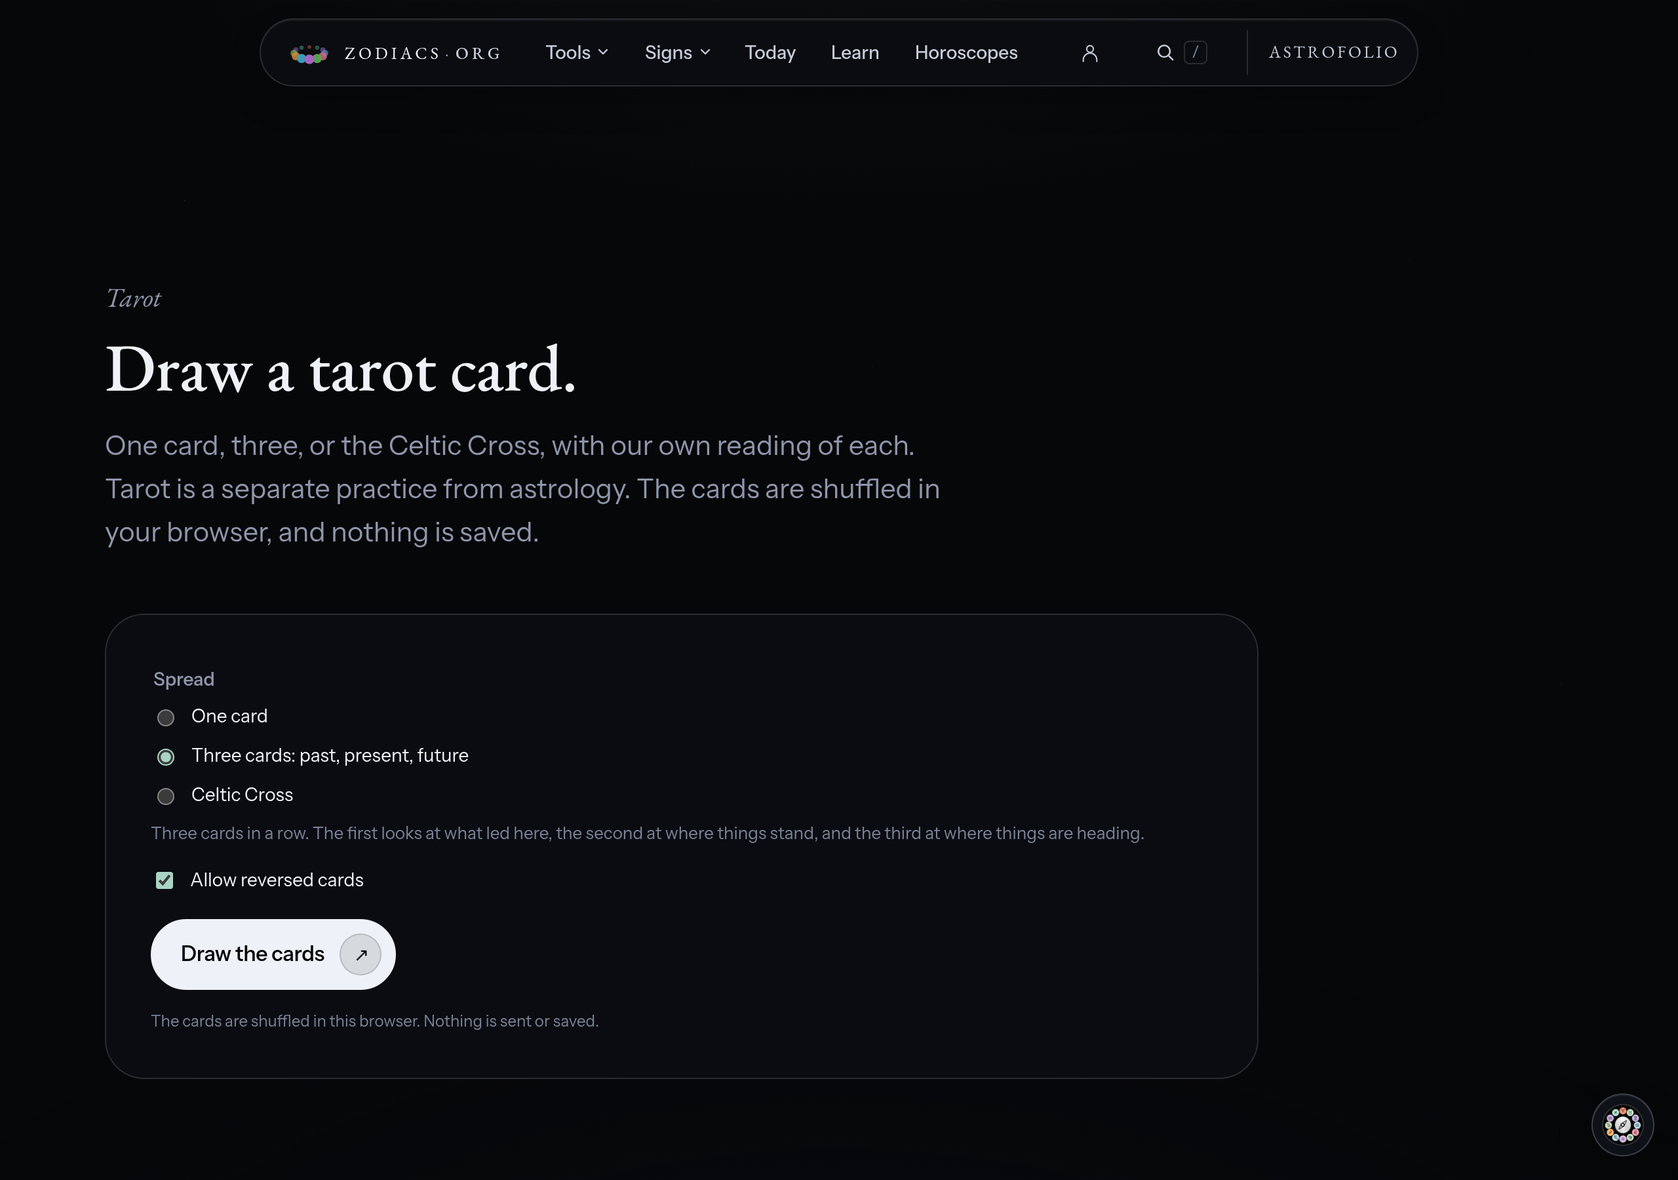
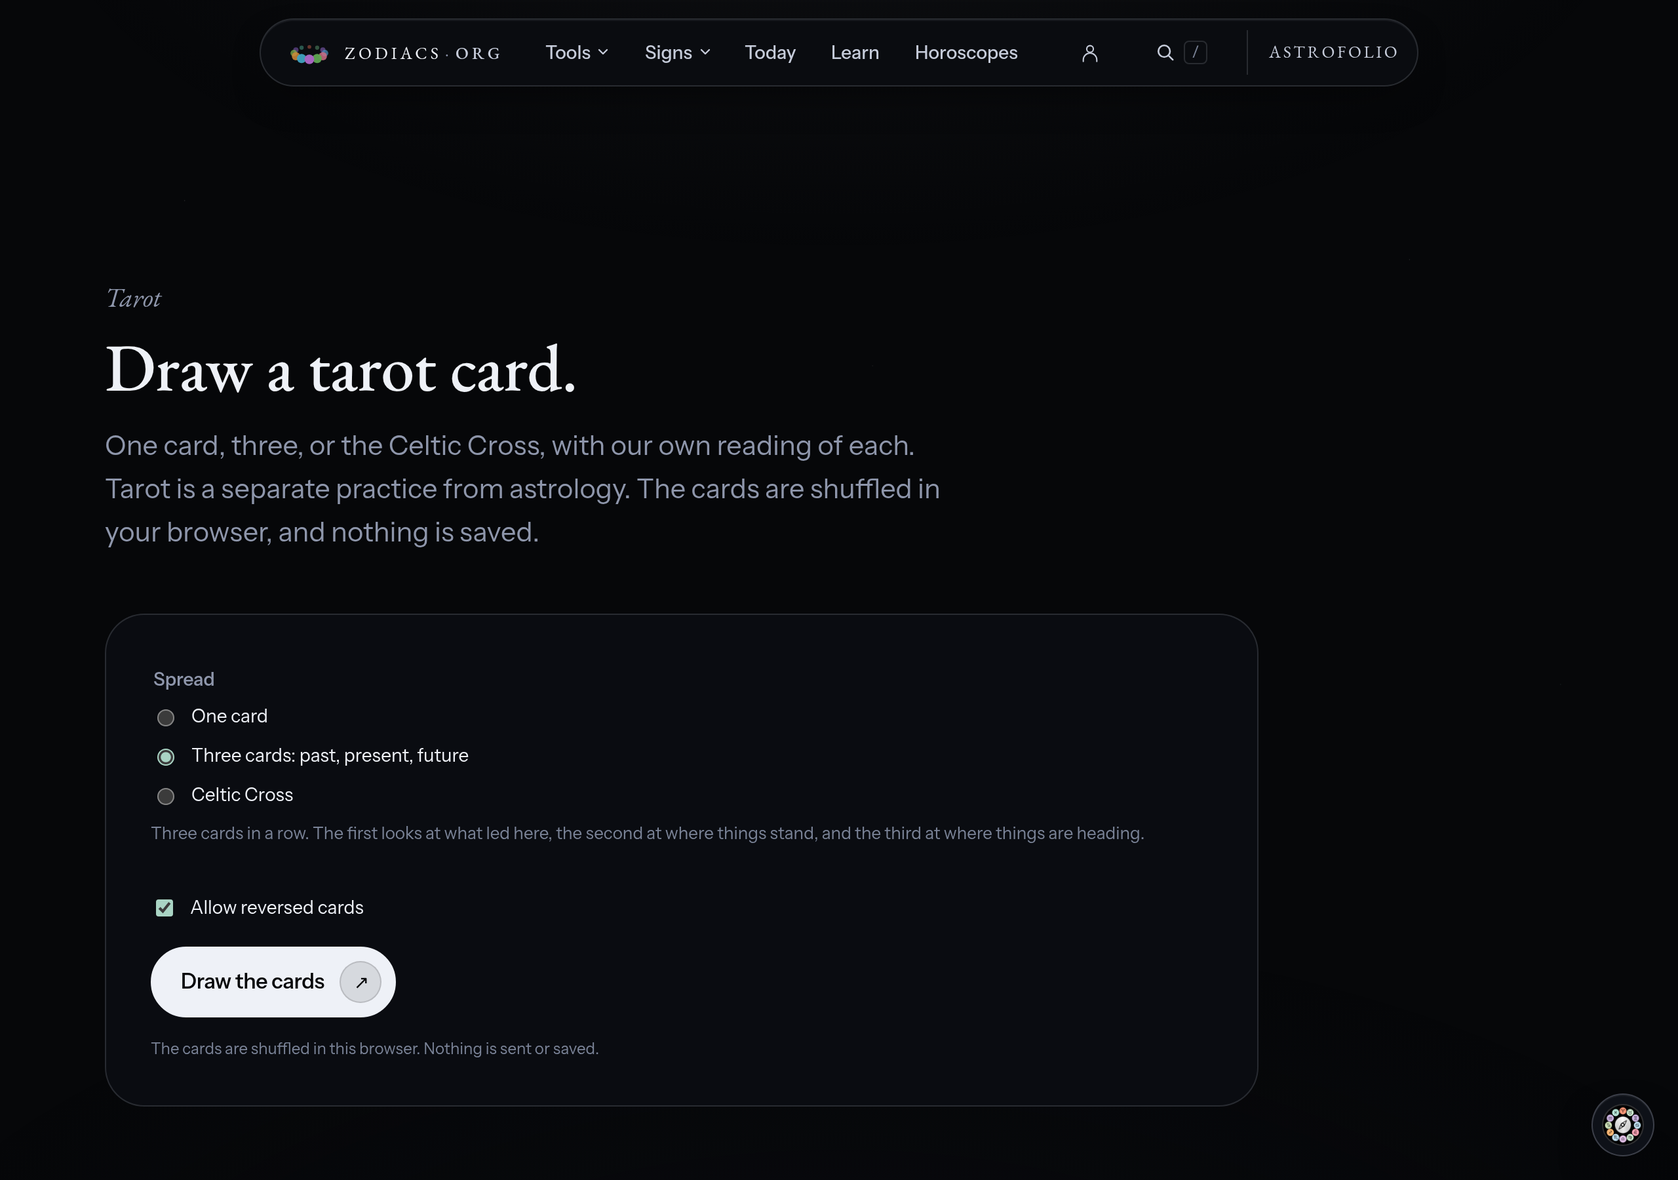
Tarot: link the page only while it is on, keep the spread description's height, no reading for a named child
draw_tarot and the explain_astrology tarot pointer link /tarot/ only while the
website's page switch is on, so a web rollback leaves no 404 link. The spread
descriptions share one grid cell sized to the longest, so a choice taken over at
hydration moves nothing; the delayed-hydration drive now measures that shift for
every spread. The draw_tarot description tells the assistant to give no reading
for a named child under 13 and to ask for or send nothing about them.

Changed region(s): [[0.0625, 0.7156, 0.3125, 0.9022]]

diff --git a/src/ai-tools/contracts.ts b/src/ai-tools/contracts.ts
@@ -529,7 +529,7 @@ export const TOOL_DESCRIPTIONS: Record<AiToolName, string> = {
   get_solar_return: "Gives the person's solar return: the chart for their next birthday, cast for the instant the Sun returns to its birth degree, with the year's main themes (the return's rising sign and the house of its Sun with a birth time and place, the Moon's sign with a birth time, where Jupiter grows and Saturn builds, and the chart's tightest aspect). Use it for questions such as what my next birthday chart says, or what themes my coming year holds. Give their birth date, with the time, time zone and coordinates only if they know them; never guess a time. which: current gives the return that opened the birthday year now running. Birth details are used for this answer only: never stored, logged or put in a link. The themes come with their limits, the return's time on the person's clock and a \"Reading confidence NN%\" label that says how specific the details were, not the odds of an event. shareUrl is the link for sharing it. Money, career, wellbeing and legal themes are read as astrology traditionally reads them; it gives no price or trading call, buy or sell signal, diagnosis or medical timing, death prediction, or legal win or loss. For a birth date under 18 romantic and attraction readings are left out and a note says so. It refuses a birth date less than 13 years ago.",
   get_numerology: "Works out numerology numbers from a birth date and, if the person gives it, their full name at birth: the Life Path, Expression, Soul Urge and Personality numbers (Pythagorean system, with 11, 22 and 33 kept as master numbers) and the Personal Year, each with Zodiacs' own written meaning. Numerology is a separate tradition from astrology, with no planets, signs or sky in it: say so when you share it, and do not present it as part of a birth chart. Use it when someone asks for their life path number or another numerology number. Give the birth date, and the name only as the person gives it for this reading; never guess either. The name and date are used for this answer only: they are not returned, stored or put in a link. Share the meanings plainly as numerology's traditional reading, including work and wellbeing where the tradition speaks to them, with no money, earnings or promotion forecasts. Give no specific price or investment calls, buy or sell signals, diagnoses or medical timing, predictions of death, or word that someone will win or lose a legal matter.",
   find_good_days: "Finds the best days for a goal in a window of up to twelve months, by the traditional rules of electional astrology, and the days to avoid. Goals: launch, contract (signing a contract), move (moving home), relationship (starting a relationship), travel, job (starting a new job) and wedding. Each day is read from the Moon's phase and sign, the void-of-course Moon, Mercury, Venus and Mars retrograde and their station days, eclipses (2026 to 2030) and the Moon's supportive or difficult aspects that day. Give the goal, from and to as dates (at most 366 days in all) and the person's time zone. If the person asks for their own chart to count, add their birth date, and the birth time and birthplace time zone only if they give them; these are used for this answer only and never stored. Never send a child's birth date: it refuses one under 13, and gives no relationship or wedding reading from one under 18. It returns ranked days, each with a score, a one-line reason and a reading-confidence label, the days to avoid with a reason each, and the retrograde periods and eclipses in the window. Share them plainly as astrology's traditional reading, money, career and legal themes included. It gives no timing for surgery, medical procedures or treatment, and a goal that asks for one gets that answer; do not call it for those. Make no price call, buy or sell signal, or prediction of who wins a legal matter. It guarantees nothing and does not schedule or book anything.",
-  draw_tarot: "Draws tarot cards: one card, three cards (past, present, future) or the ten-card Celtic Cross, each upright or reversed, with Zodiacs' own written meaning and a question to think about. Tarot is a separate practice from astrology, with no planets, signs or birth details in it: say so when you share the cards, and do not mix them with a chart reading. Use it when someone asks for a tarot card or a tarot reading. Each draw is random and fair, from the full 78-card deck with a secure random number generator, and a new call is a new draw. It takes only the spread and whether to allow reversed cards: never send the person's question, name or birth details, and keep the question in the conversation. Share each card plainly as tarot's traditional reading, including work, practical foundations, wellbeing and agreements where the card speaks to them, such as the Ace of Pentacles as a steady practical foundation or the Four of Swords as a call to rest, with no money, earnings or promotion forecasts. Give no specific price or investment calls, buy or sell signals, diagnoses or medical timing, predictions of death, or word that someone will win or lose a legal matter.",
+  draw_tarot: "Draws tarot cards: one card, three cards (past, present, future) or the ten-card Celtic Cross, each upright or reversed, with Zodiacs' own written meaning and a question to think about. Tarot is a separate practice from astrology, with no planets, signs or birth details in it: say so when you share the cards, and do not mix them with a chart reading. Use it when someone asks for a tarot card or a tarot reading. Each draw is random and fair, from the full 78-card deck with a secure random number generator, and a new call is a new draw. It takes only the spread and whether to allow reversed cards: never send the person's question, name or birth details, and keep the question in the conversation. Zodiacs is not directed at children under 13: give no tarot reading for a named child under 13, and do not ask for or send that child's name, age or other details. Share each card plainly as tarot's traditional reading, including work, practical foundations, wellbeing and agreements where the card speaks to them, such as the Ace of Pentacles as a steady practical foundation or the Four of Swords as a call to rest, with no money, earnings or promotion forecasts. Give no specific price or investment calls, buy or sell signals, diagnoses or medical timing, predictions of death, or word that someone will win or lose a legal matter.",
   ...personalRecord((tool) => tool.description),
 };
 

diff --git a/src/ai-tools/tarot.test.ts b/src/ai-tools/tarot.test.ts
@@ -210,12 +210,41 @@ describe('draw_tarot and privacy', () => {
   const spies: ReturnType<typeof vi.spyOn>[] = [];
   afterEach(() => { for (const spy of spies.splice(0)) spy.mockRestore(); });
 
-  it('logs nothing and links only to the tarot page', async () => {
+  it('logs nothing and links only to the tarot page, while the website\'s page is switched on', async () => {
     for (const method of ['log', 'info', 'warn', 'error', 'debug'] as const) spies.push(vi.spyOn(console, method).mockImplementation(() => {}));
-    const host = await serveAt(ON);
+    const host = await serveAt({ ...ON, PUBLIC_TAROT_ENABLED: '1' });
     const result = await call(host, 'draw_tarot', { spread: 'three-card' });
     expect(result.structuredContent.links.map((link: { url: string }) => link.url)).toEqual(['https://zodiacs.org/tarot/?ref=assistant']);
     for (const spy of spies) expect(spy).not.toHaveBeenCalled();
+  });
+
+  it('tells the assistant to give no reading for a named child under 13, and to ask for and send nothing about them', () => {
+    const description = TOOL_DESCRIPTIONS.draw_tarot;
+    expect(description).toContain('Zodiacs is not directed at children under 13: give no tarot reading for a named child under 13, and do not ask for or send that child\'s name, age or other details.');
+    // Said before the card meanings, next to what the call must never carry.
+    expect(description.indexOf('named child under 13')).toBeLessThan(description.indexOf('Share each card'));
+    expect(description.indexOf('keep the question in the conversation')).toBeLessThan(description.indexOf('named child under 13'));
+    expect(description).not.toMatch(/[\u2013\u2014]/u);
+  });
+
+  it('links no tarot page while the website\'s page is off, as after a web rollback, with draw_tarot still offered', async () => {
+    const urls = (result: { structuredContent: unknown }) => JSON.stringify(result.structuredContent).match(/https:\/\/[^"]+/gu) ?? [];
+    // The tool switch on and the page off: the page's own variable unset, or anything but exactly '1'.
+    for (const page of [undefined, '0', '', 'true', ' 1']) {
+      const host = await serveAt({ ...ON, PUBLIC_TAROT_ENABLED: page });
+      const drawn = await call(host, 'draw_tarot', { spread: 'three-card' });
+      expect(drawn.structuredContent.ok, String(page)).toBe(true);
+      expect(drawn.structuredContent.data.cards).toHaveLength(3);
+      expect(drawn.structuredContent.links).toEqual([]);
+      expect(urls(drawn).filter((url) => url.includes('/tarot/'))).toEqual([]);
+      const pointer = await call(host, 'explain_astrology', { topic: 'tarot' });
+      expect(pointer.structuredContent.data.message).toBe(TAROT_POINTER);
+      expect(urls(pointer).filter((url) => url.includes('/tarot/')), String(page)).toEqual([]);
+    }
+    // Both on: the pointer links the page too.
+    const host = await serveAt({ ...ON, PUBLIC_TAROT_ENABLED: '1' });
+    const pointer = await call(host, 'explain_astrology', { topic: 'tarot' });
+    expect(pointer.structuredContent.links.map((link: { url: string }) => link.url)).toEqual(['https://zodiacs.org/tarot/?ref=assistant']);
   });
 });
 

diff --git a/src/ai-tools/features/tarot.ts b/src/ai-tools/features/tarot.ts
@@ -50,8 +50,12 @@ export const TAROT_SEPARATE = 'Tarot is a separate practice from astrology. It w
 export const TAROT_METHOD = 'Each card is drawn from the full 78-card deck without replacement, using a secure random number generator and rejection sampling so that no card is favoured. With reversals on, each card is upright or reversed with even odds. Nothing about the person, and no question, goes into the draw.';
 export const TAROT_NOTE = 'The meanings are Zodiacs\' own, written to the themes the tarot tradition gives each card.';
 
-/** The answer for a draw already made: separated from drawTarot so the tests can check the shape of a known draw. */
-export function tarotAnswer(spread: TarotData['spread'], reversals: boolean, drawn: readonly DrawnCard[], origin: string): { data: TarotData; links: { title: string; url: string }[] } {
+/**
+ * The answer for a draw already made: separated from drawTarot so the tests can check the shape of a known draw.
+ * `pageOn`: the website's /tarot/ page is switched on (PUBLIC_TAROT_ENABLED=1); only then is it linked, since off it is
+ * the 404 page, whatever the tool's own switch says.
+ */
+export function tarotAnswer(spread: TarotData['spread'], reversals: boolean, drawn: readonly DrawnCard[], origin: string, pageOn = false): { data: TarotData; links: { title: string; url: string }[] } {
   const layout = SPREADS[spread];
   const data: TarotData = {
     spread, spreadName: layout.name, spreadDescription: layout.description, reversals,
@@ -60,11 +64,11 @@ export function tarotAnswer(spread: TarotData['spread'], reversals: boolean, dra
     method: TAROT_METHOD,
     note: TAROT_NOTE,
   };
-  return { data, links: [{ title: 'Tarot on Zodiacs', url: `${origin}/tarot/` }] };
+  return { data, links: pageOn ? [{ title: 'Tarot on Zodiacs', url: `${origin}/tarot/` }] : [] };
 }
 
-export function drawTarotReading(args: TarotInput, origin: string) {
+export function drawTarotReading(args: TarotInput, origin: string, pageOn = false) {
   const spread = args.spread ?? 'one-card';
   const reversals = args.reversals ?? true;
-  return tarotAnswer(spread, reversals, drawTarot(spread, reversals), origin);
+  return tarotAnswer(spread, reversals, drawTarot(spread, reversals), origin, pageOn);
 }

diff --git a/src/ai-tools/http.ts b/src/ai-tools/http.ts
@@ -256,7 +256,7 @@ export function createAiNodeHandler(options: AiHttpOptions = {}) {
       res.setHeader('Content-Type', 'application/json; charset=utf-8'); res.statusCode = 200;
       res.end(JSON.stringify({ jsonrpc: '2.0', id: typeof message.id === 'string' || typeof message.id === 'number' ? message.id : null, error: { code: -32601, message: 'This MCP operation is not supported.' } })); return;
     }
-    const dependencies: AiDependencies = { ...(options.dependencies ?? {}), ...(env[OCCASIONS_SWITCH_ENV] === '1' ? { occasions: true, ...(env[COVERAGE_SWITCH_ENV] === '1' ? { coverage: true } : {}) } : {}), ...(skyEvents ? { skyEvents: true } : {}), ...(yearScore ? { yearScore: true } : {}), ...(yearScorePeople ? { yearScorePeople: true } : {}), ...(solarReturn ? { solarReturn: true } : {}), ...(env.PUBLIC_BIRTHDAY_REPORT_ENABLED === '1' ? { birthdayReportPage: true } : {}), ...(numerology ? { numerology: true } : {}), ...(goodDays ? { goodDays: true } : {}), ...(tarot ? { tarot: true } : {}), ...(personal ? { personal: true } : {}), ...(account ? { accounts: true } : {}), allowEvents: async () => {
+    const dependencies: AiDependencies = { ...(options.dependencies ?? {}), ...(env[OCCASIONS_SWITCH_ENV] === '1' ? { occasions: true, ...(env[COVERAGE_SWITCH_ENV] === '1' ? { coverage: true } : {}) } : {}), ...(skyEvents ? { skyEvents: true } : {}), ...(yearScore ? { yearScore: true } : {}), ...(yearScorePeople ? { yearScorePeople: true } : {}), ...(solarReturn ? { solarReturn: true } : {}), ...(env.PUBLIC_BIRTHDAY_REPORT_ENABLED === '1' ? { birthdayReportPage: true } : {}), ...(numerology ? { numerology: true } : {}), ...(goodDays ? { goodDays: true } : {}), ...(tarot ? { tarot: true, ...(env.PUBLIC_TAROT_ENABLED === '1' ? { tarotPage: true } : {}) } : {}), ...(personal ? { personal: true } : {}), ...(account ? { accounts: true } : {}), allowEvents: async () => {
       try {
         const addressVerdict = await rateLimit(req, COMPUTE_EVENTS_RATE_LIMIT_ID);
         return addressVerdict === 'allowed' ? await atomicQuota('event') : addressVerdict;

diff --git a/src/islands/TarotDraw.test.ts b/src/islands/TarotDraw.test.ts
@@ -41,3 +41,25 @@ describe('the tarot draw reads the form it is in', () => {
     expect(source).toMatch(/const chosen = formChoice\(formRef\.current\);\s*if \(chosen\) \{ setSpread\(chosen\.spread\); setReversals\(chosen\.reversals\); \}\s*setReady\(true\);/u);
   });
 });
+
+describe('the spread description keeps its height whichever spread is chosen', () => {
+  it('renders every description in one cell, the chosen one shown and the others hidden from sight and from assistive technology', async () => {
+    const { SPREADS, SPREAD_IDS } = await import('../lib/tarot/spreads');
+    const markup = render(h(TarotDraw, {}));
+    const cell = markup.match(/<div class="tarot__spread-help">([\s\S]*?)<\/div>/u)?.[1] ?? '';
+    const paragraphs = [...cell.matchAll(/<p class="field__help"([^>]*)>([^<]*)<\/p>/gu)];
+    expect(paragraphs.map((match) => match[2])).toEqual(SPREAD_IDS.map((id) => SPREADS[id].description.replaceAll("'", '&#39;').replaceAll('"', '&quot;')));
+    const shown = paragraphs.filter((match) => /data-shown/u.test(match[1]));
+    expect(shown).toHaveLength(1);
+    expect(shown[0][2]).toBe(SPREADS['three-card'].description.replaceAll("'", '&#39;'));
+    expect(shown[0][1]).not.toContain('aria-hidden');
+    for (const match of paragraphs.filter((entry) => !/data-shown/u.test(entry[1]))) expect(match[1]).toContain('aria-hidden="true"');
+  });
+
+  it('stacks them in one grid cell and hides all but the chosen one, so the cell is as tall as the longest', () => {
+    const css = readFileSync(new URL('../styles/tarot.css', import.meta.url), 'utf8');
+    expect(css).toContain('.tarot__spread-help { display: grid; }');
+    expect(css).toContain('.tarot__spread-help > .field__help { grid-area: 1 / 1; }');
+    expect(css).toContain('.tarot__spread-help > .field__help:not([data-shown]) { visibility: hidden; }');
+  });
+});

diff --git a/src/ai-tools/features/explain.ts b/src/ai-tools/features/explain.ts
@@ -97,8 +97,10 @@ interface Topic {
 /**
  * numerology: get_numerology is offered (ZODIACS_NUMEROLOGY_ENABLED=1), so a numerology topic points to it.
  * tarot: draw_tarot is offered (ZODIACS_TAROT_ENABLED=1), so a tarot topic points to it.
+ * tarotPage: the website's /tarot/ page is switched on (PUBLIC_TAROT_ENABLED=1), so that pointer links it; off, the
+ * page is the 404 page, and the pointer links nothing.
  */
-export interface ExplainOptions { skyEvents?: boolean; numerology?: boolean; tarot?: boolean }
+export interface ExplainOptions { skyEvents?: boolean; numerology?: boolean; tarot?: boolean; tarotPage?: boolean }
 
 /** With get_numerology offered: numerology is still not astrology, so this tool does not explain it, but the other tool answers. */
 export const NUMEROLOGY_POINTER = 'Numerology is a separate tradition from astrology, and this tool explains astrology only. For numerology numbers and their meanings from a birth date and a name, use get_numerology, and say that it is numerology, not astrology.';
@@ -651,7 +653,7 @@ export function explainAstrology(args: ExplainInput, origin = DEFAULT_ORIGIN, op
       note: EXPLAIN_NOTE,
     };
     if (outside === 'numerology' && options.numerology) return { data, links: [{ title: 'Numerology calculator on Zodiacs', url: `${origin}/numerology/` }] };
-    if (outside === 'tarot' && options.tarot) return { data, links: [{ title: 'Tarot on Zodiacs', url: `${origin}/tarot/` }] };
+    if (outside === 'tarot' && options.tarot) return { data, links: options.tarotPage ? [{ title: 'Tarot on Zodiacs', url: `${origin}/tarot/` }] : [] };
     return { data, links: [{ title: 'Learn astrology on Zodiacs', url: `${origin}/learn/` }, { title: 'Glossary', url: `${origin}/learn/glossary/` }] };
   }
   const terms = topic.glossary.map(term);

diff --git a/src/ai-tools/tools.ts b/src/ai-tools/tools.ts
@@ -82,6 +82,11 @@ export interface AiDependencies {
    */
   tarot?: boolean;
   /**
+   * Whether the website's /tarot/ page is switched on (PUBLIC_TAROT_ENABLED exactly '1'). draw_tarot and
+   * explain_astrology's tarot pointer link it only then: off, it is the 404 page, even with draw_tarot offered.
+   */
+  tarotPage?: boolean;
+  /**
    * The personal tools (ZODIACS_PERSONAL_TOOLS_ENABLED=1, src/ai-tools/personal/registry.ts), in effect only with the
    * coverage and occasion tools (personalOn).
    */
@@ -816,7 +821,7 @@ export async function executeAiTool(tool: AiToolName, input: unknown, dependenci
         break;
       }
       case 'explain_astrology': {
-        ({ data, links } = explainAstrology(INPUT_SCHEMAS.explain_astrology.parse(input), ORIGIN, { skyEvents, ...(numerologyOn(dependencies) ? { numerology: true } : {}), ...(tarotOn(dependencies) ? { tarot: true } : {}) }));
+        ({ data, links } = explainAstrology(INPUT_SCHEMAS.explain_astrology.parse(input), ORIGIN, { skyEvents, ...(numerologyOn(dependencies) ? { numerology: true } : {}), ...(tarotOn(dependencies) ? { tarot: true, ...(dependencies.tarotPage ? { tarotPage: true } : {}) } : {}) }));
         break;
       }
       case 'search_sky_events': {
@@ -904,7 +909,7 @@ export async function executeAiTool(tool: AiToolName, input: unknown, dependenci
         break;
       }
       case 'draw_tarot': {
-        ({ data, links } = drawTarotReading(INPUT_SCHEMAS.draw_tarot.parse(input), ORIGIN));
+        ({ data, links } = drawTarotReading(INPUT_SCHEMAS.draw_tarot.parse(input), ORIGIN, dependencies.tarotPage === true));
         break;
       }
       case 'find_birthplace': {

diff --git a/src/islands/TarotDraw.tsx b/src/islands/TarotDraw.tsx
@@ -82,7 +82,13 @@ export default function TarotDraw() {
                 <span>{SPREADS[id].name}</span>
               </label>
             ))}
-            <p class="field__help">{SPREADS[spread].description}</p>
+            {/* Every spread's description, stacked in one cell with only the chosen one shown, so the cell is always as
+                tall as the longest at any width: a choice taken over when the island hydrates moves nothing below it. */}
+            <div class="tarot__spread-help">
+              {SPREAD_IDS.map((id) => (
+                <p key={id} class="field__help" aria-hidden={id === spread ? undefined : 'true'} data-shown={id === spread ? '' : undefined}>{SPREADS[id].description}</p>
+              ))}
+            </div>
           </fieldset>
           <label class="tarot__choice tarot__reversals">
             <input type="checkbox" name={REVERSALS_NAME} checked={reversals} onChange={(e) => { setReversals((e.target as HTMLInputElement).checked); setDrawn(null); }} />

diff --git a/src/styles/tarot.css b/src/styles/tarot.css
@@ -1,5 +1,9 @@
 /* The tarot draw's controls and the reusable card (src/components/TarotCard.tsx). Cosmic Void tokens only. */
 .tarot__spreads { border: 0; padding: 0; margin: 0 0 14px; display: grid; gap: 8px; }
+/* The spread descriptions share one grid cell; the cell takes the tallest, and only the chosen one is visible. */
+.tarot__spread-help { display: grid; }
+.tarot__spread-help > .field__help { grid-area: 1 / 1; }
+.tarot__spread-help > .field__help:not([data-shown]) { visibility: hidden; }
 .tarot__choice { display: flex; align-items: center; gap: 10px; color: var(--text); font-size: var(--text-sm); cursor: pointer; }
 .tarot__choice input { accent-color: var(--sign-pisces); }
 .tarot__reversals { margin-bottom: 18px; }
